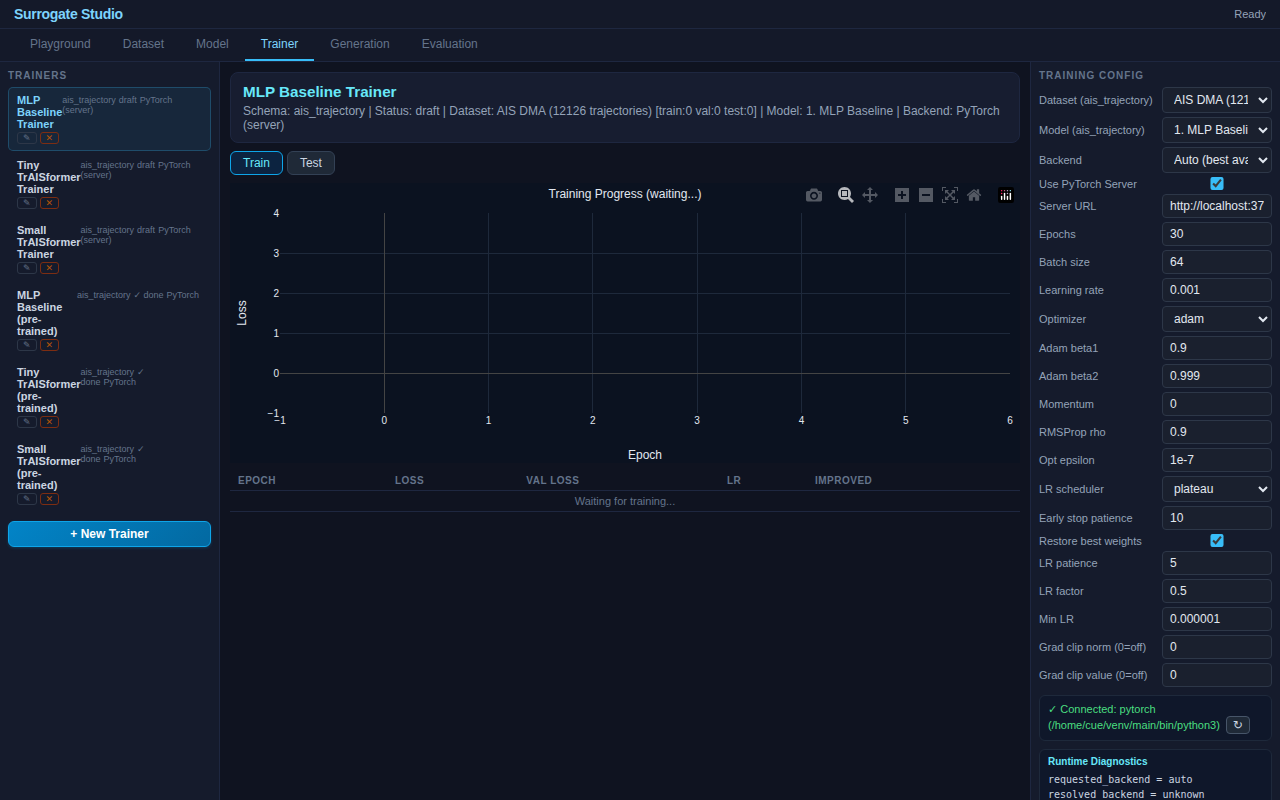
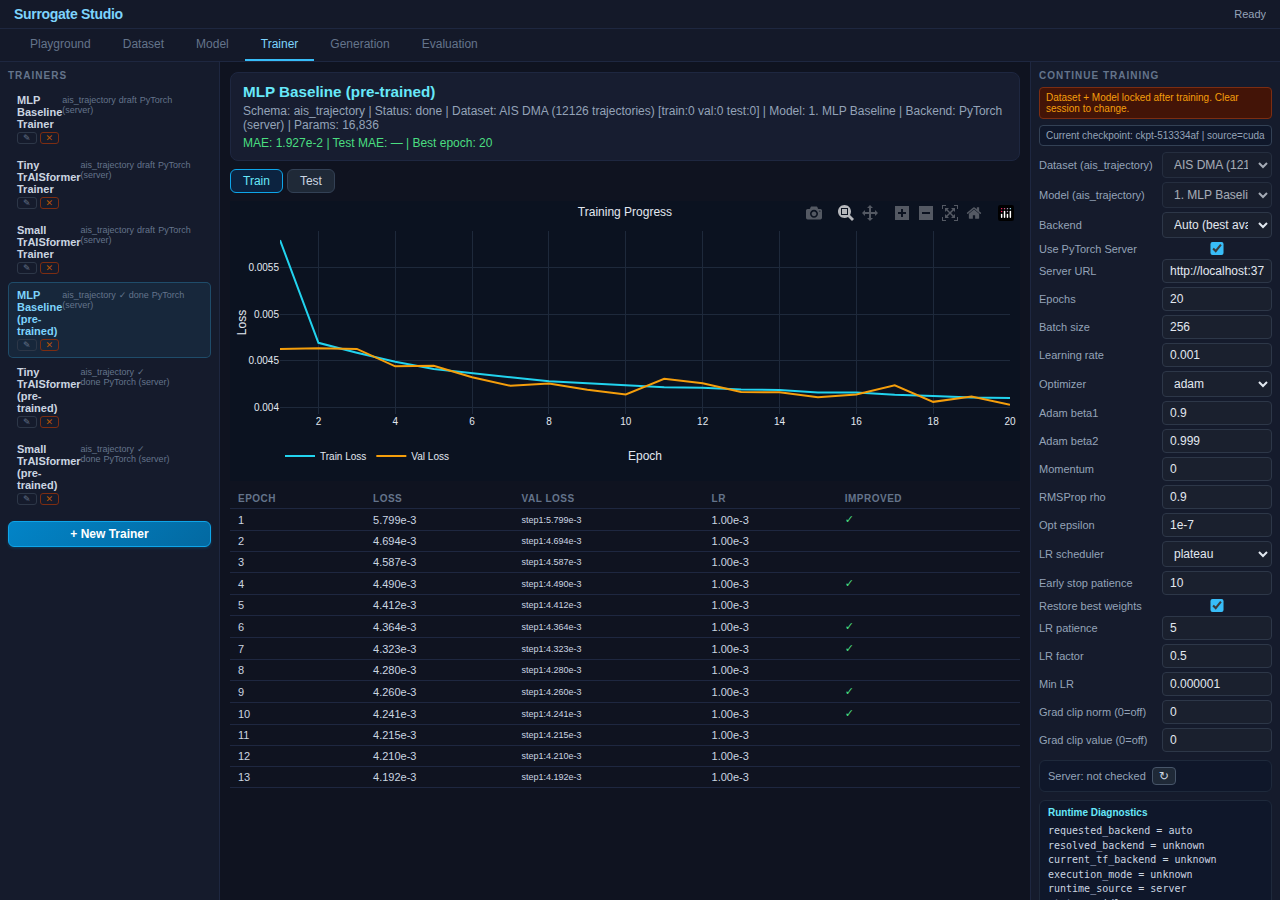
docs(TrAISformer): recapture trainer_pretrained.png to match new config
Reviewer caught that the README's results section now claims
20 epochs / batch 256 (per the harmonized pretrained config in this
PR), but the trainer_pretrained.png image embedded just below the
results table still showed the old draft trainer card: Epochs 30,
Batch 64, empty "waiting for training" chart.

Recaptured by:
  - opening the demo's Trainer tab
  - selecting MLP Baseline (pre-trained)
  - screenshotting the rendered right-panel config + loaded loss curve

The new image now shows Epochs 20, Batch 256, the actual training
loss curve, and the MAE 1.927e-2 that matches the README's MLP row.

scripts/recapture_trais_trainer.js added as a small one-purpose
recipe so this can be re-run if the trainer config changes again.

diff --git a/scripts/recapture_trais_trainer.js b/scripts/recapture_trais_trainer.js
@@ -1,0 +1,57 @@
+"use strict";
+// Recapture demo/TrAISformer/images/trainer_pretrained.png against
+// a pretrained trainer card so the screenshot shows the 20-epoch /
+// batch-256 config + the loaded loss curve, matching the README.
+// The old capture pointed at a draft (untrained) live trainer
+// where the config + chart didn't reflect the shipped pretrained.
+
+var puppeteer = require("puppeteer");
+var path = require("path");
+
+var ROOT = path.resolve(__dirname, "..");
+var URL = "http://localhost:3777/demo/TrAISformer/";
+var OUT = path.join(ROOT, "demo/TrAISformer/images/trainer_pretrained.png");
+
+function sleep(ms) { return new Promise(function (r) { setTimeout(r, ms); }); }
+
+(async function () {
+  var browser = await puppeteer.launch({
+    headless: "new",
+    args: ["--no-sandbox", "--disable-setuid-sandbox", "--disable-dev-shm-usage", "--disable-gpu"],
+  });
+  var page = await browser.newPage();
+  await page.setViewport({ width: 1280, height: 900 });
+
+  await page.goto(URL, { waitUntil: "networkidle2", timeout: 60000 });
+  await sleep(3000);
+
+  // Click Trainer tab
+  await page.evaluate(function () {
+    var btns = Array.from(document.querySelectorAll("button"));
+    var t = btns.find(function (b) { return b.textContent.trim() === "Trainer"; });
+    if (t) t.click();
+  });
+  await sleep(1500);
+
+  // Select the MLP Baseline (pre-trained) card so the right panel shows the
+  // shipped pretrained's config + metrics + loss curve.
+  var picked = await page.evaluate(function () {
+    var ws = document.querySelector(".osc-workspace.active") || document;
+    var items = Array.from(ws.querySelectorAll(".left-trainer-item, .left-item"));
+    var match = items.find(function (it) { return /MLP Baseline.*pre-trained/i.test(it.textContent || ""); }) ||
+      items.find(function (it) { return /pre-trained/i.test(it.textContent || ""); }) ||
+      items[0];
+    if (match) { match.click(); return match.textContent.trim().slice(0, 60); }
+    return null;
+  });
+  console.log("Selected:", picked);
+  await sleep(3000);
+
+  await page.screenshot({ path: OUT, fullPage: false });
+  console.log("Saved:", OUT, "(" + require("fs").statSync(OUT).size + " bytes)");
+
+  await browser.close();
+})().catch(function (e) {
+  console.error("FAIL:", e && e.message);
+  process.exit(1);
+});
